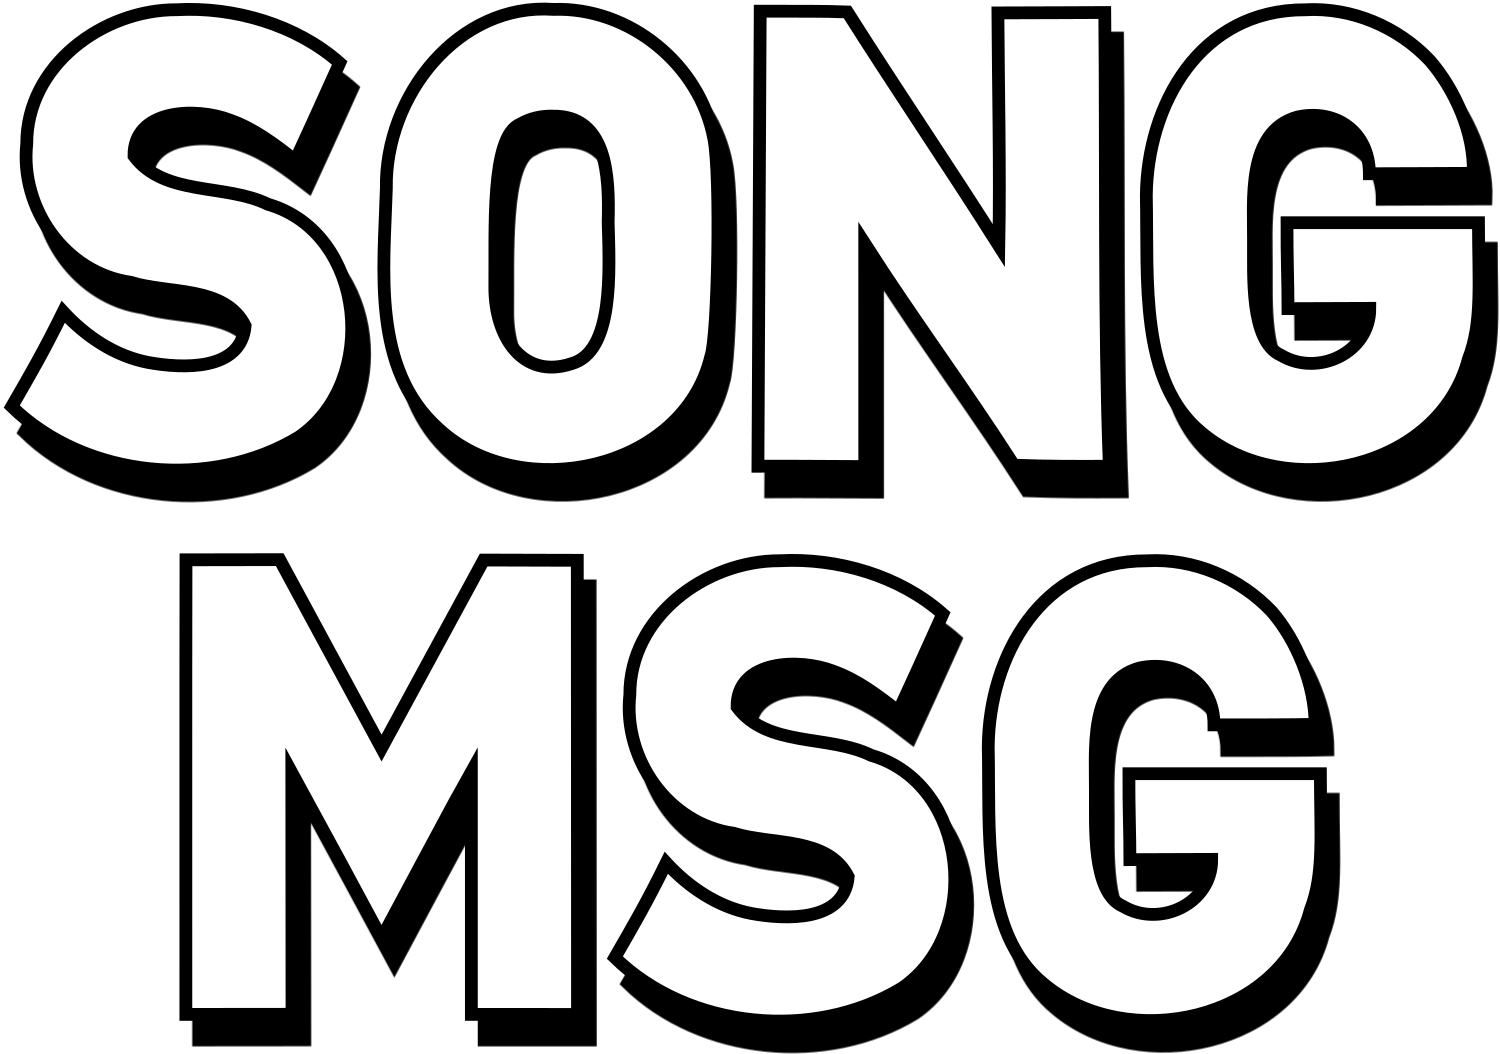
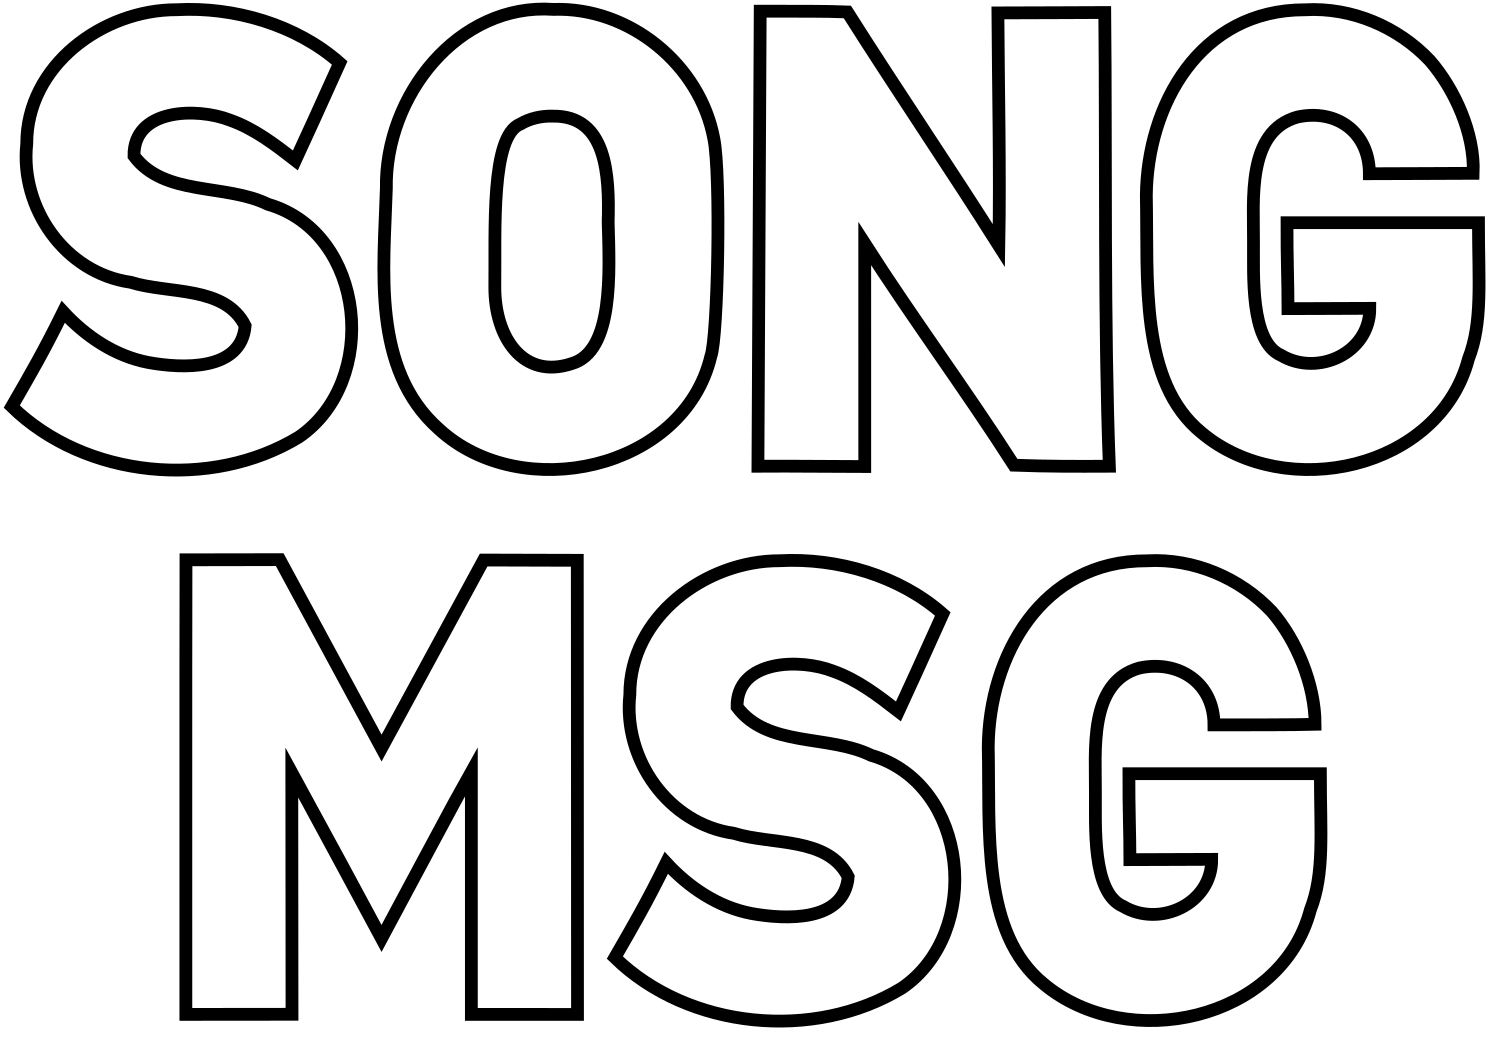
Use CSS shadow instead of shadow in image
This will make the logo's shadow consistent with the shadows on the
textbox and button even when it is scaled to different sizes.

diff --git a/css/style.css b/css/style.css
@@ -23,6 +23,8 @@ input {
     width: 40%;
     max-width: 450px;
     margin: 50px 0px;
+
+    filter: drop-shadow(2px 4px 0px black);
 }
 
 #input-form {
